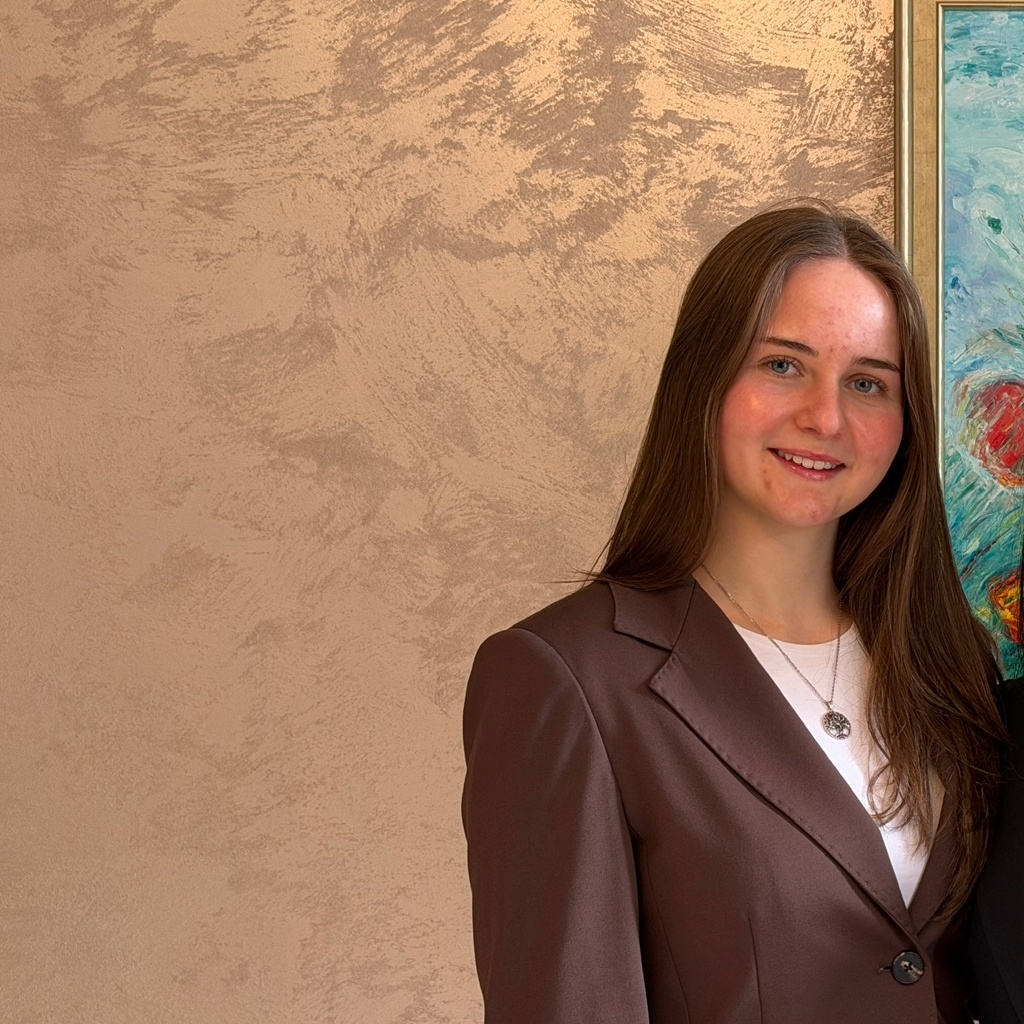
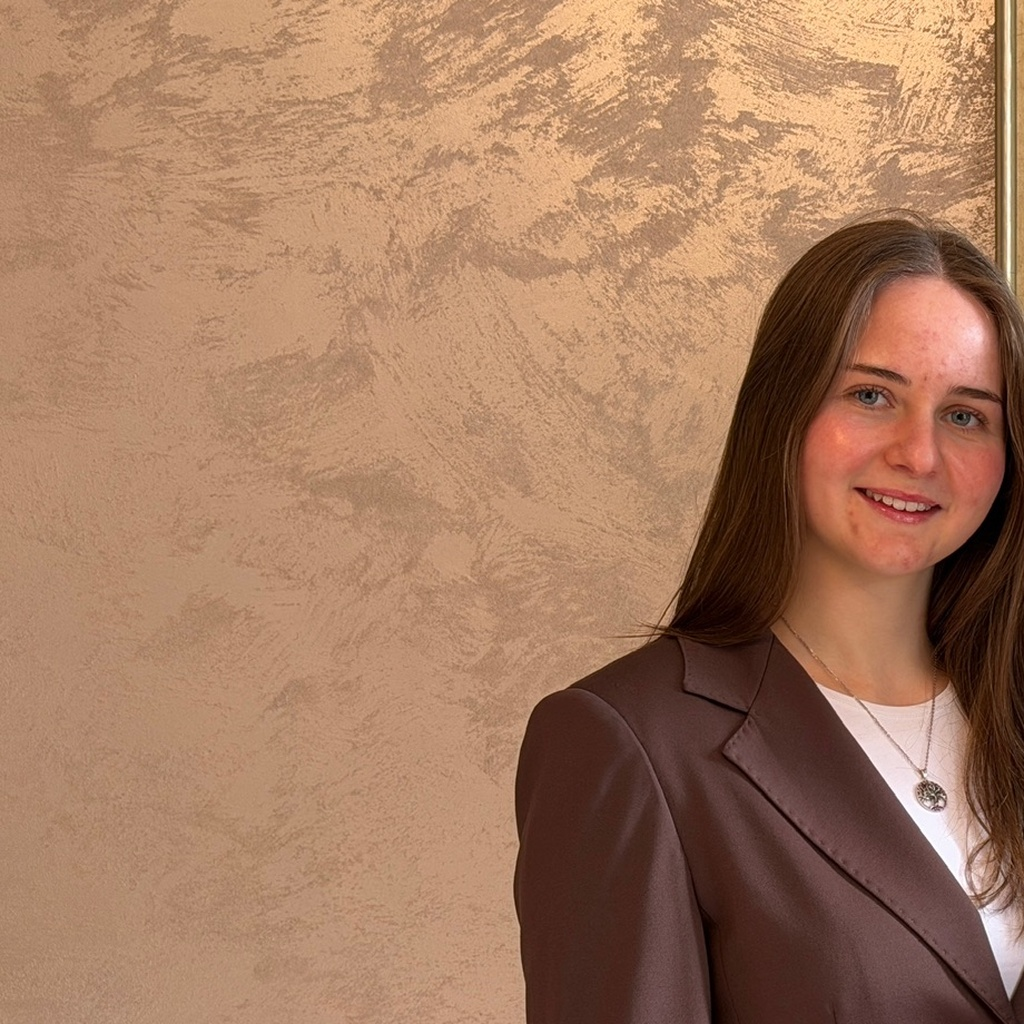
Update profile pictures for Maria and Vivian on team page

diff --git a/about.html b/about.html
@@ -110,7 +110,7 @@
         <!-- Maria Fargher -->
         <div class="team-card">
           <div class="team-card-inner">
-            <div class="team-member-img-placeholder">MF</div>
+            <img src="maria.jpg" alt="Maria Fargher, Founding Director" class="team-member-img" />
             <span class="team-member-role">Founding Director</span>
             <h3 class="team-member-name">Maria Fargher</h3>
             <div class="team-member-bio-container">
@@ -167,7 +167,7 @@
         <!-- Vivian Okolie -->
         <div class="team-card">
           <div class="team-card-inner">
-            <div class="team-member-img-placeholder">VO</div>
+            <img src="vivian.png" alt="Vivian Okolie, Director" class="team-member-img" />
             <span class="team-member-role">Director</span>
             <h3 class="team-member-name">Vivian Okolie</h3>
             <div class="team-member-bio-container">
